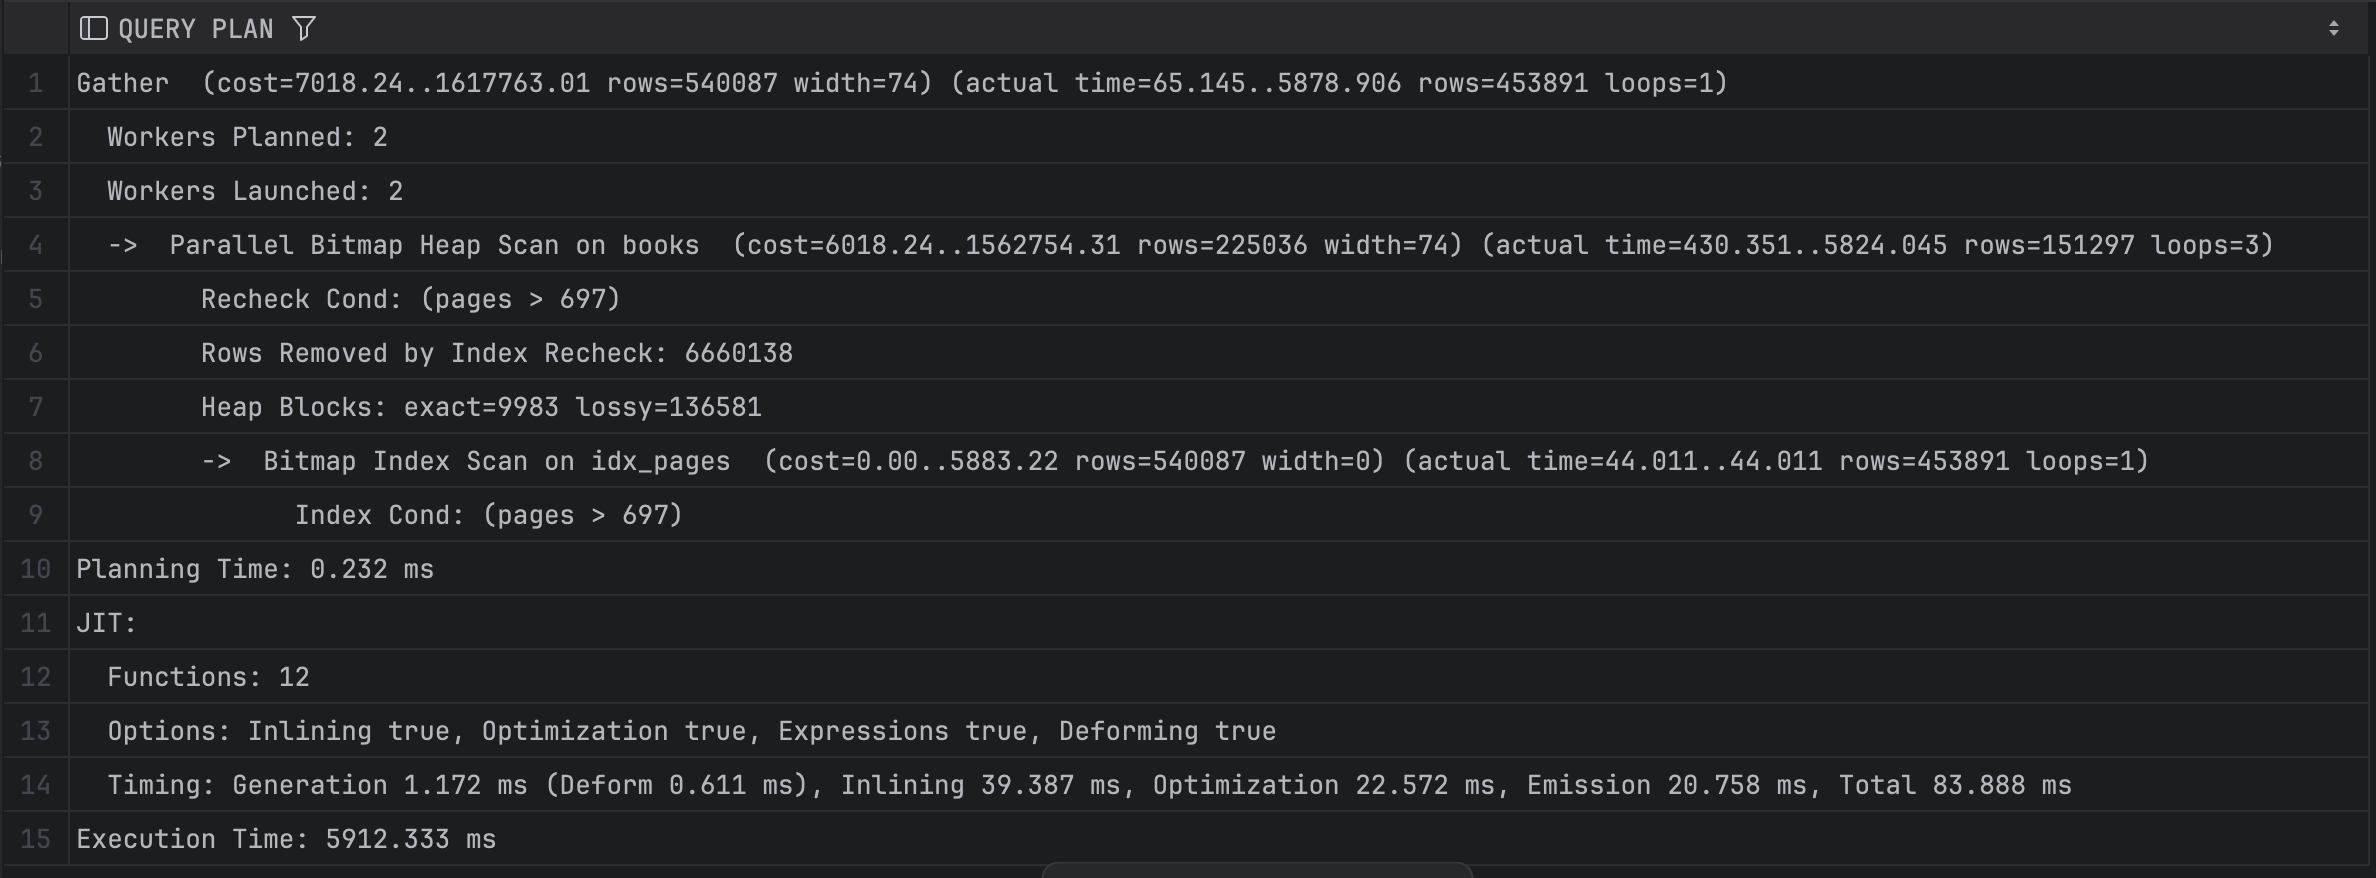
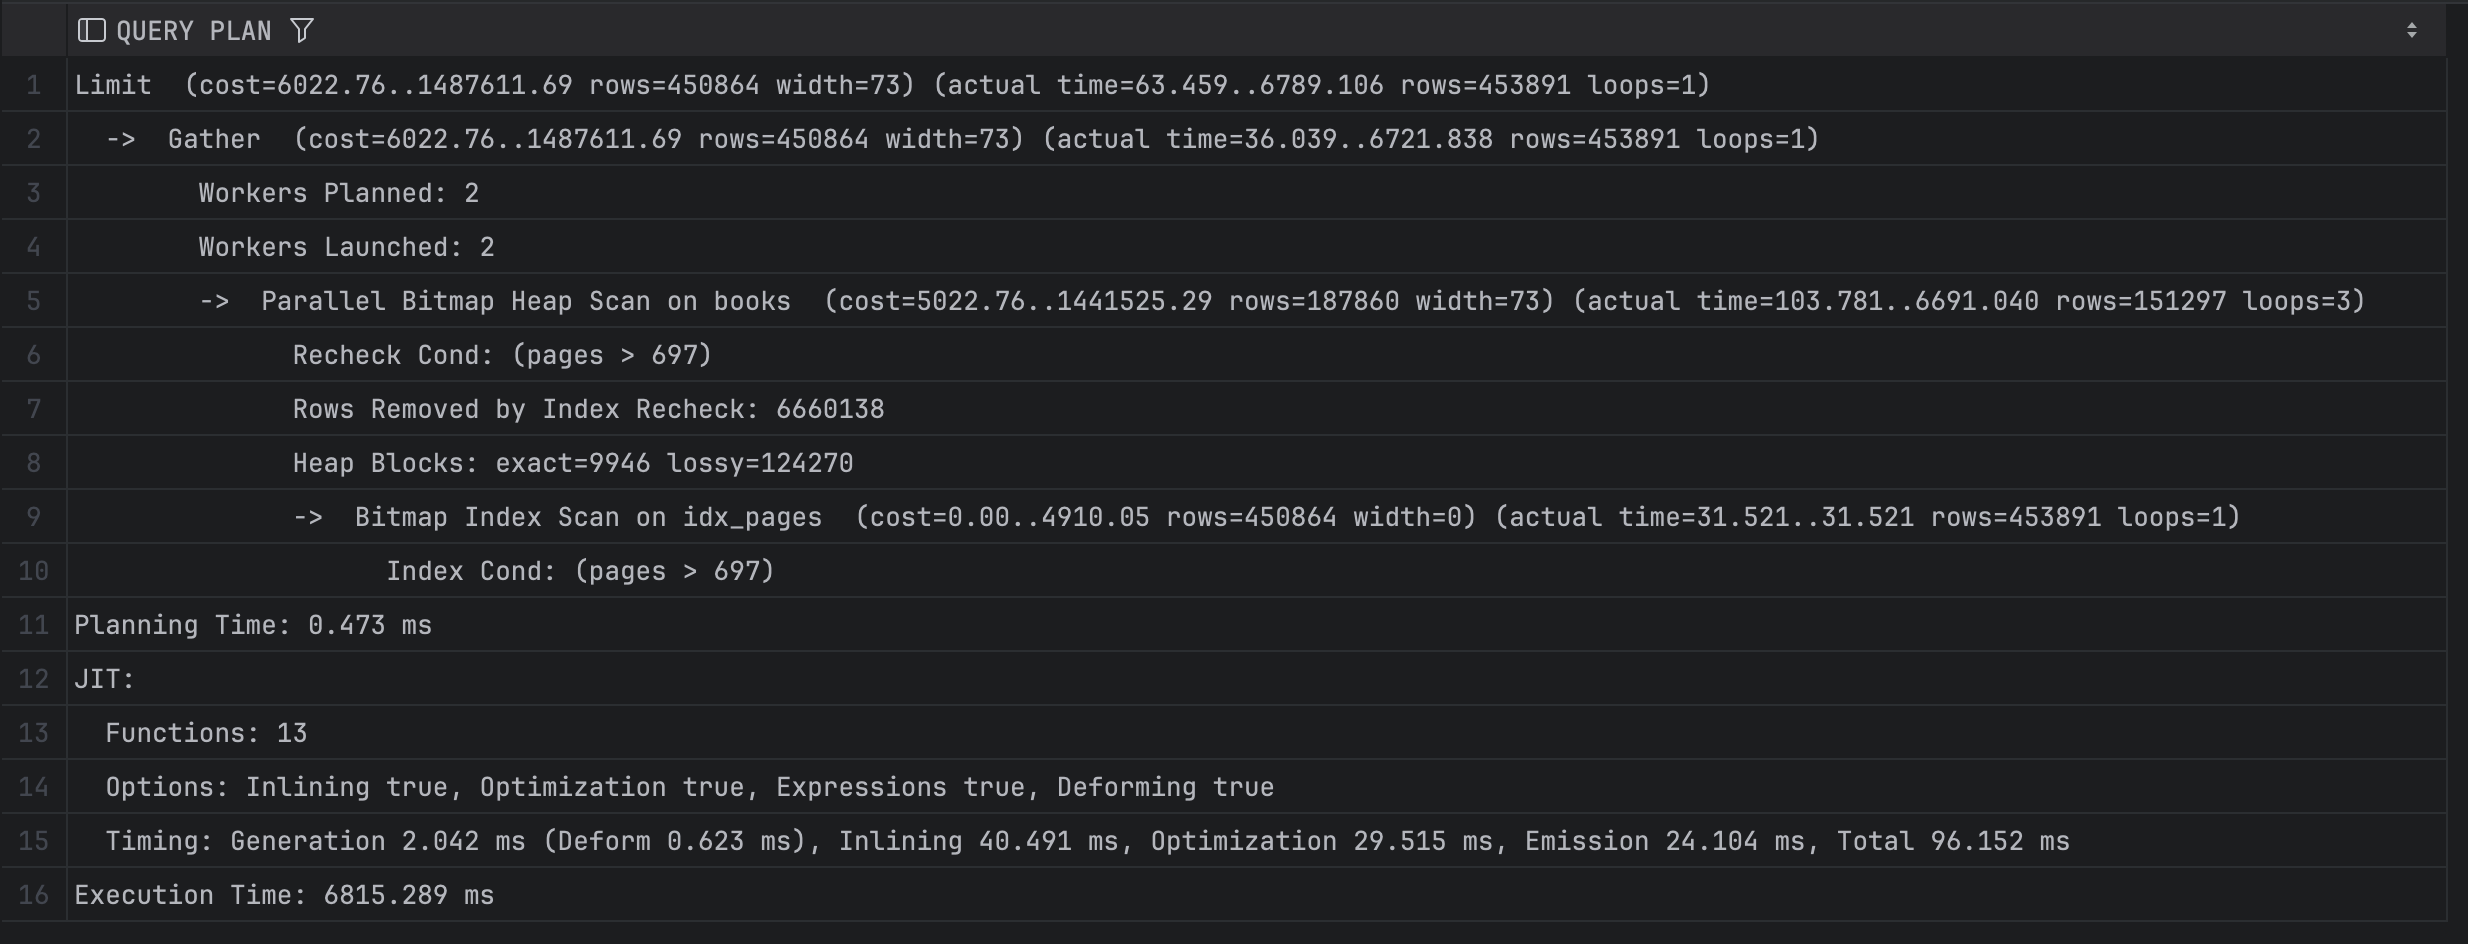
work

diff --git a/blog/postgres-indexing-1/index.md b/blog/postgres-indexing-1/index.md
@@ -41,7 +41,7 @@ Catastrophically, this took 20 _seconds_. With 90 million rows in this table, Po
 
 Line 5 makes this especially clear
 
-```
+```bash
 ->  Sort  (cost=2839564.34..2934237.14 rows=37869122 width=112) (actual time=20080.358..20080.359 rows=7 loops=3)
 ```
 
@@ -49,7 +49,7 @@ Notice the loops=3, the the rows = 37 million. Each worker is scanning its share
 
 These 3 groups of 7 are then _gathered_ and _merged_ together in the Gather Merge on line 2
 
-```
+```bash
 ->  Gather Merge  (cost=2840564.36..11677309.78 rows=75738244 width=112) (actual time=20093.790..20096.619 rows=10 loops=1)
 ```
 
@@ -147,7 +147,10 @@ Checking the math, the Log<sub>450</sub>(90,000,000) comes out to ... 2.998
 Let's run a quick query by id, with the primary key index that already exists, and then look at how we can create on one title, so we can re-run our query to find the first 10 books in order.
 
 ```sql
-book_management=# explain analyze select * from books where id = 10000;
+explain analyze
+select *
+from books
+where id = 10000;
 ```
 
 which produces the following
@@ -181,7 +184,7 @@ CREATE INDEX idx_title ON books(title);
 
 And now our query runs in less than a ms.
 
-![Index Seek and Read](/postgres-indexing-1/img5-index-1.png)
+![Index Seek and Read](/postgres-indexing-1/img6-index-2.png)
 
 Notice what's _missing_ from this execution plan, that was present on the previous query, when we looked for a single index value.
 
@@ -191,11 +194,27 @@ It's the Index Cond. We're not actually ... _looking for_ anything. We just want
 
 ## More fun with indexes
 
-Let's go deeper.
+Let's go deeper. Before we start, I'll point out that values for `pages` was filled with random values from 100-700. So there are 600 possible values for pages, each randomly assigned.
 
-Let's define an index with minimal real-world usefulness, which should allow us to explore all the concepts we've talked about so far.
+Let's look at a query to read the titles of books with the 3 maximum values for pages, and limit our results to a million records
 
-We'll define an index on the `pages` column.
+```sql
+explain analyze
+select title, pages
+from books
+where pages > 697
+limit 1000000;
+```
+
+![Index Seek and Read](/postgres-indexing-1/img6a-top-3-page-values.png)
+
+As before, we see a parallel sequential scan. We read through the table, looking for the first million rows, and since our query matches so few records, the database has to read through over 30 million rows before it finds the first million matching our condition
+
+```
+   Rows Removed by Filter: 30194406
+```
+
+Ok, let's define an index on `pages`.
 
 ```sql
 CREATE INDEX idx_pages ON books(pages);
@@ -207,81 +226,119 @@ You might wonder about the fact that the pages column is by no means unique; but
 
 Everything else works the same as it always has: the database can quickly jump down to a specific value. This allows us to query a particular value, or even grab a range of values sorted on the column we just looked up. For example, if we want all books with pages > 500, we just seek to that value, and start reading.
 
-But to really make sure we're internalizing how indexes work, let's start by thinking about queries that indexes _can't_ help with. The best example of that is a "not equals" query.
+Let's re-run that query from before
 
 ```sql
 explain analyze
-select *
+select title, pages
 from books
-where pages <> 548;
+where pages > 697
+limit 1000000;
 ```
 
-An index allows us to seek to a specific value; it won't really let us seek to a ... "non-value." What would that even mean? Let's look at the execution plan.
+![Pages > 697](/postgres-indexing-1/img9-index-pages-bitmap-scan.png)
 
-![Pages not equals plan](/postgres-indexing-1/img8-pages-not-query-execution-plan.png)
-
-We're just scanning the entire table, and applying a filter, represented in line two
+There's a lot going on. Our index is being used, but not like before
 
 ```
-  Filter: (pages <> 548)
-```
-
-In a sequential table scan, the Filter predicate, if present, runs a test against each entry found in the heap.
-
-The next line
-
-```
-  Rows Removed by Filter: 151697
-```
-
-Tells us how many rows were removed by the filter: it seems there are 151,697 books in the table with 548 pages.
-
-Now is a good time to mention that the pages value was filled with random values from 100-700. So with 600 possible values, the odds of any particular one is 1 in 600, or 0.00166667. For fun, let's note that 151697 / 90885413 rows in the table were found with that value, which and 151697 / 90885413 is 0.0016691. So that makes sense.
-
-There's a point to all this, I promise.
-
-Let's write a query to get the titles of the books which have the maximum 3 possible pages values (698, 699, 700)
-
-```sql
-explain analyze
-select pages, title
-from books
-where pages > 697;
-```
-
-![Pages not equals plan](/postgres-indexing-1/img9-index-pages-bitmap-scan.png)
-
-Lots going on. Our index is being used, but not like before
-
-```
-   ->  Bitmap Index Scan on idx_pages  (cost=0.00..5883.22 rows=540087 width=0) (actual time=44.011..44.011 rows=453891 loops=1)
+   ->  Bitmap Index Scan on idx_pages  (cost=0.00..4910.05 rows=450864 width=0) (actual time=31.521..31.521 rows=453891 loops=1)
 ```
 
 Bitmap scan means that the database is scanning our database, and _noting_ the heap locations with records matching our filter. Remember, we need to access the heap to retrieve our title column, to satisfy our query.
 
-Then the engine visits those addresses, and scoopes up the records therein. This is the Bitmap Heap Scan on line 4
+Then the db visits those addresses, and scoopes up the records therein. This is the Bitmap Heap Scan on line 5
 
 ```
-   ->  Bitmap Index Scan on idx_pages  (cost=0.00..5883.22 rows=540087 width=0) (actual time=44.011..44.011 rows=453891 loops=1)
+   ->  Parallel Bitmap Heap Scan on books  (cost=5022.76..1441525.29 rows=187860 width=73) (actual time=103.781..6691.040 rows=151297 loops=3)
 ```
 
 But remember, this is the heap, and it's not ordered on pages, so those random locations may have _other_ records _not_ matching our filter. This is done in the Index Recheck on line 6
 
 ```
-   Rows Removed by Index Recheck: 6660138
+   Recheck Cond: (pages > 697)
 ```
 
-which removed a whopping _6 million_ results. There was no limit on this query, to the database had to find ALL matching records, and there are a lot of them.
+which removed a whopping _6 million_ results.
 
-## When an index stops being useful
+What's especially egrigious here is that this was _slower_ than a regular table scan from before. Adding an index made this query run _slow_.
 
-Let's query all the books with an above average number of pages
+Was I forcing the issue with the enormous limit of 1 million? Of course. The point isn't to write realistic or even useful queries, here; my goal is to clearly how indexes work, how they can help, and occasionally, how they can lead the query optimizer to make the wrong choice, and hurt performance (I've seen that happen with non-contrived queries).
+
+Before we move on, let's query all the books with an above-average number of pages
 
 ```sql
 explain analyze
-select pages, title
+select title, pages
 from books
-where pages > 400;
+where pages > 400
+limit 1000000;
 ```
 
 ![Pages does not use index](/postgres-indexing-1/img10-pages-back-to-heap-scan.png)
+
+In this case Postgres was smart enough to not even bother with the index.
+
+Databases keep track of statistics of its various column values. In this case, Postgres realized this query would match against an _incredibly large_ number of results. Those results would have to all jump down into **random** locations in the heap, if read from the index. And again, **Random I/O** is **bad** for performance.
+
+So it decided to just read the main table match our condition of pages > 400. Since this matches so many results, it only took Postgres 200ms to finish.
+
+## Covering Indexes
+
+Let's go back to this query
+
+````sql
+```sql
+explain analyze
+select title, pages
+from books
+where pages > 697
+limit 1000000;
+````
+
+It took a little over 3 seconds with no index, and over 6 seconds with an index on just pages.
+
+Your first instinct might be to just add title to the index
+
+```sql
+CREATE INDEX idx_pages_title ON books(pages, title);
+```
+
+Which would look like this
+
+![Pages and title index](/postgres-indexing-1/img10-pages-back-to-heap-scan.png)
+
+This would work fine. We're not _needing_ to filter based on title, only pages. But having those titles there wouldn't hurt one bit. Postgres would just ignore it, and find the starting point for all books with > 400 pages.
+
+Let's try it.
+
+```sql
+explain analyze
+select title, pages
+from books
+where pages > 697
+limit 1000000;
+```
+
+![Pages and title index](/postgres-indexing-1/img12-top-3-page-values-fast.png)
+
+Our query, which was originally 3 seconds, which jumped to 6 seconds with an index poorly suited to the query, now runs in 102ms. And notice we have a new operator in our execution plan
+
+```bash
+   ->  Index Only Scan using idx_pages_title on books  (cost=0.69..30393.42 rows=451013 width=73) (actual time=0.243..83.911 rows=453891 loops=1)
+```
+
+Index Only Scan means ... that _only_ the index is being scanned. There's no need to look anything up in the heap.
+
+For the most part. Line 4
+
+```bash
+   Heap Fetches: 0
+```
+
+is not as redundant as it might seem. Postgres does have to consult something called a visibility table to make sure the values in your index are up to date given how Postgres handles updates through it's MVCC system. But unless your data are changing extremely frequently this should not be a large burden.
+
+## A variation on the theme
+
+![Pages with included title index](/postgres-indexing-1/img12-index-with-included.png)
+
+![Pages with included title index](/postgres-indexing-1/img13-query-with-included-col.png)
